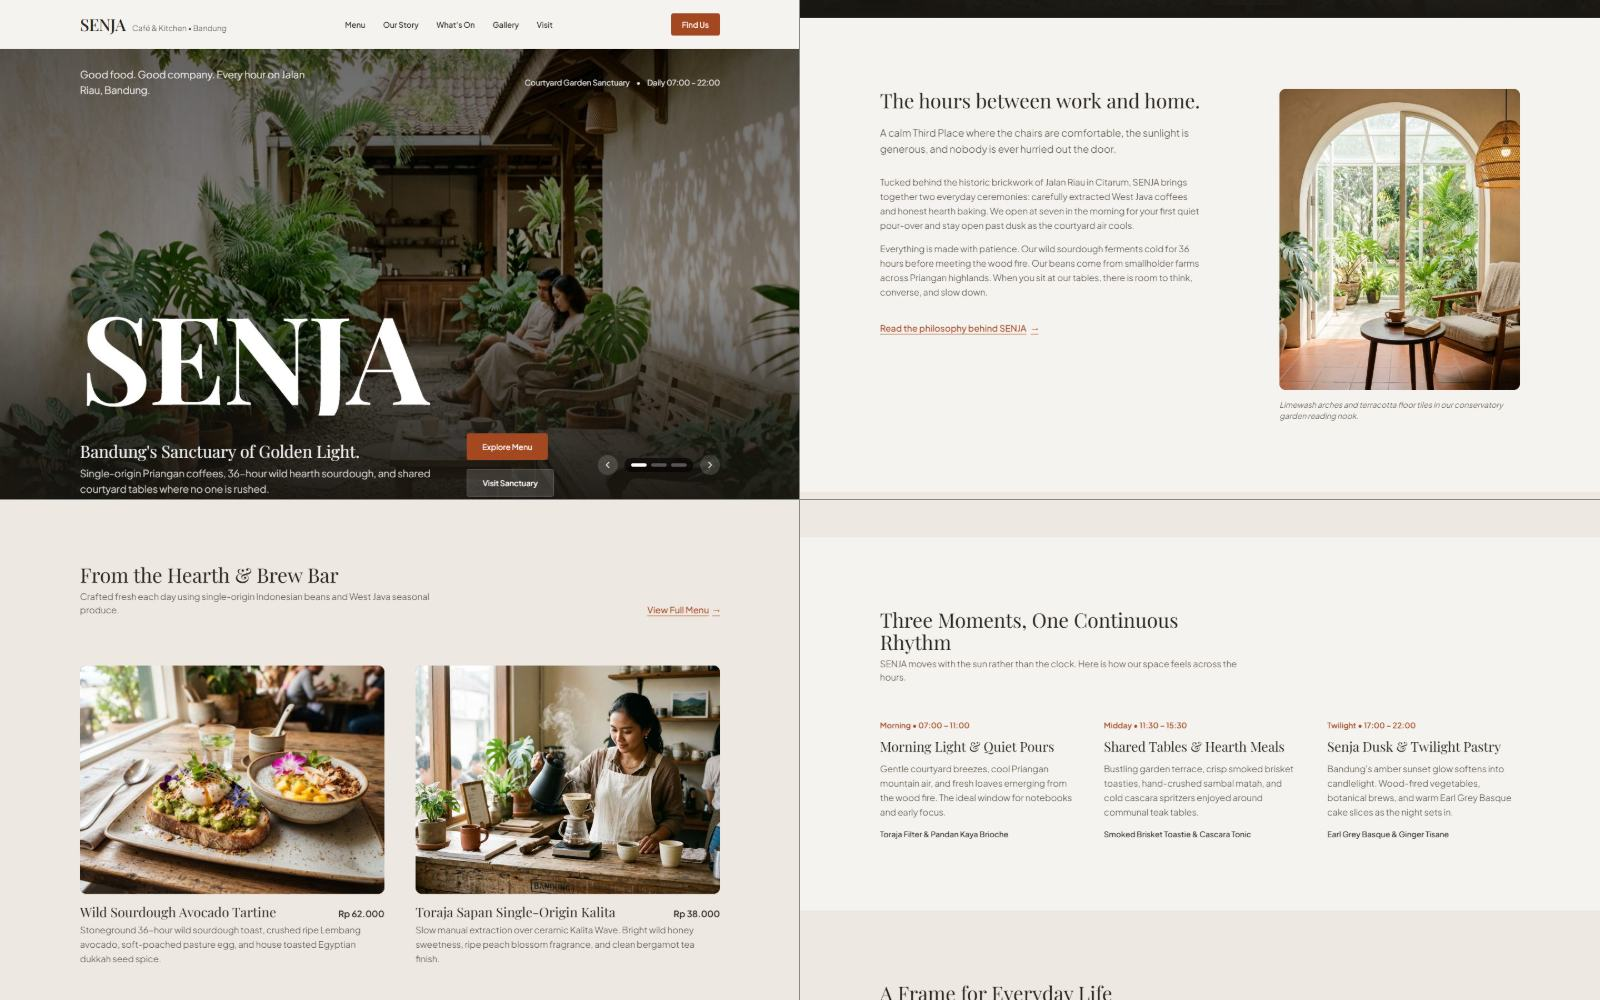
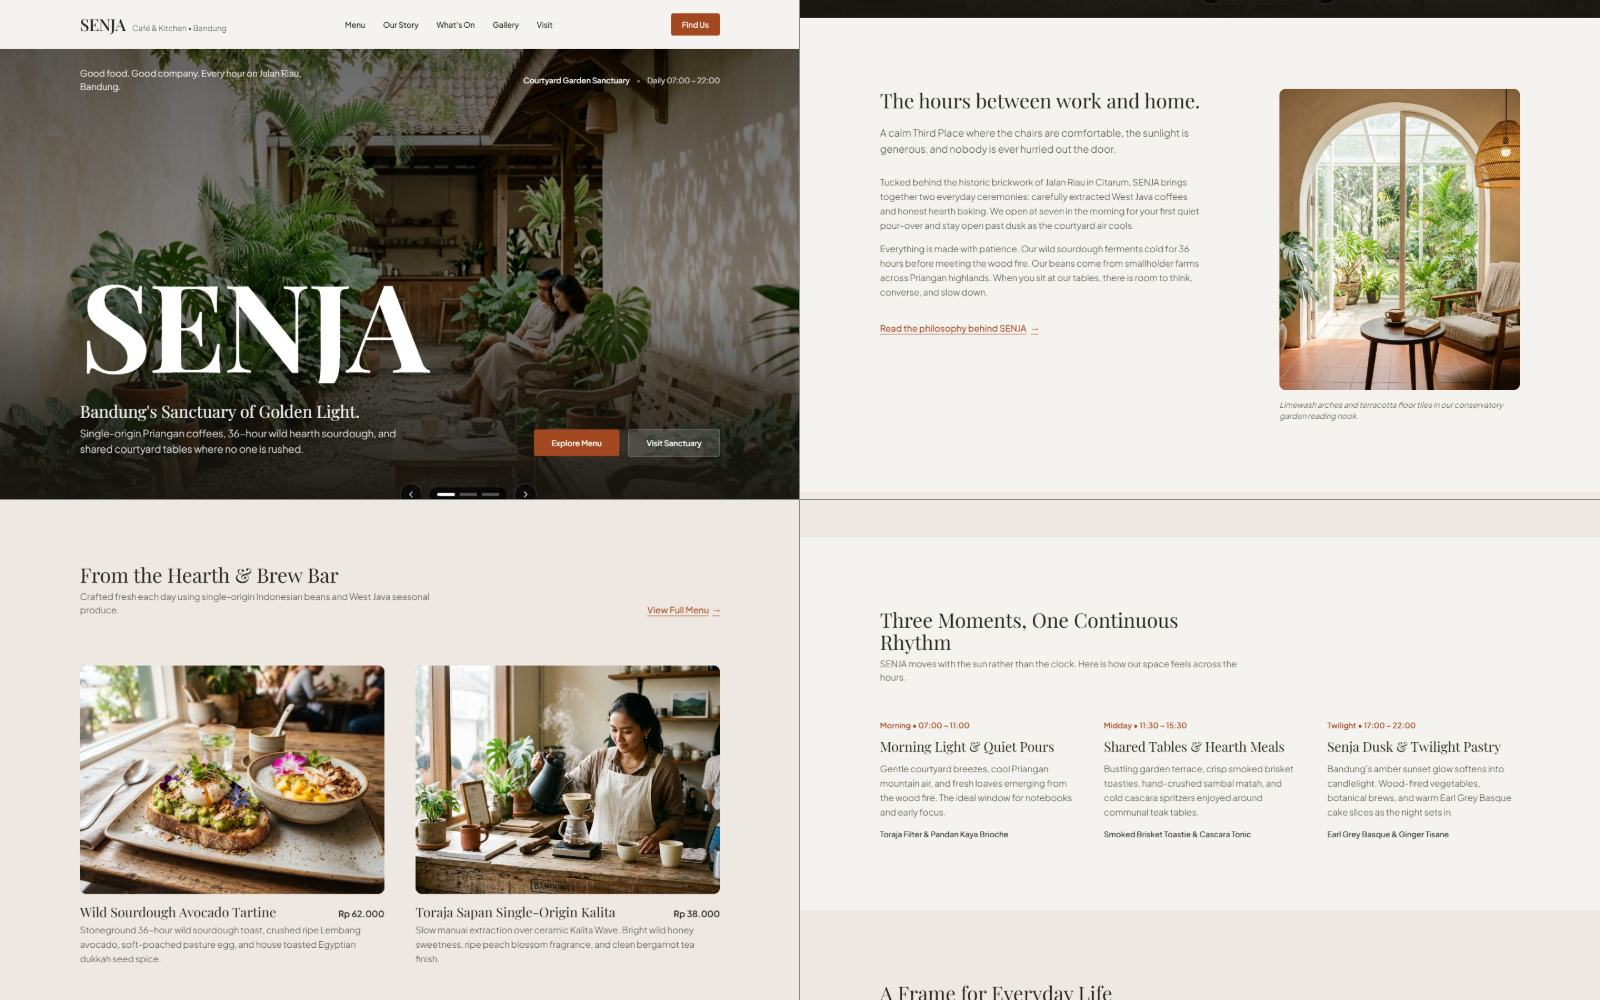
feat(hero): center slider controls dock and align action buttons cleanly

Changed region(s): [[0.0312, 0.279, 0.4688, 0.496], [0.0312, 0.062, 0.1875, 0.093], [0.3125, 0.062, 0.4375, 0.093]]

diff --git a/index.html b/index.html
@@ -225,23 +225,23 @@
       </div>
 
       <!-- Top Row Details -->
-      <div class="relative z-20 px-6 lg:px-12 py-8">
-        <div class="max-w-6xl mx-auto flex flex-col sm:flex-row items-start sm:items-center justify-between gap-4" data-rise style="--delay: 1;">
+      <div class="relative z-20 px-6 lg:px-12 pt-6 sm:pt-8 pb-3">
+        <div class="max-w-6xl mx-auto flex flex-col sm:flex-row items-start sm:items-center justify-between gap-3 sm:gap-4" data-rise style="--delay: 1;">
           <div class="max-w-md">
-            <p class="text-base sm:text-lg font-light text-white/95 leading-snug">
+            <p class="text-sm sm:text-base font-light text-white/90 leading-snug">
               Good food. Good company. Every hour on Jalan Riau, Bandung.
             </p>
           </div>
-          <div class="flex items-center gap-3 text-sm text-white/90">
-            <span id="hero-slide-caption" class="transition-opacity duration-300">Courtyard Garden Sanctuary</span>
-            <span>•</span>
-            <span>Daily 07:00 – 22:00</span>
+          <div class="flex flex-wrap items-center gap-2 sm:gap-3 text-sm text-white/90">
+            <span id="hero-slide-caption" class="transition-opacity duration-300 font-medium text-white">Courtyard Garden Sanctuary</span>
+            <span class="text-white/40">•</span>
+            <span class="text-white/80 whitespace-nowrap">Daily 07:00 – 22:00</span>
           </div>
         </div>
       </div>
 
       <!-- Bottom Monumental Wordmark & Action -->
-      <div class="relative z-30 px-6 lg:px-12 pb-10">
+      <div class="relative z-30 px-6 lg:px-12 pb-24 lg:pb-28">
         <div class="max-w-6xl mx-auto space-y-6">
           
           <!-- Monument Name is the H1 of the page at the top of the block -->
@@ -251,47 +251,46 @@
             </h1>
           </div>
 
-          <div class="flex flex-col lg:flex-row lg:items-end justify-between gap-6 pt-2 relative z-30">
+          <div class="flex flex-col lg:flex-row lg:items-end justify-between gap-8 pt-2 relative z-30">
             <div class="max-w-2xl space-y-2">
               <p class="text-2xl sm:text-3xl font-serif text-white/95 font-normal leading-tight" data-rise style="--delay: 3;">
                 Bandung's Sanctuary of Golden Light.
               </p>
-              <p class="text-base sm:text-lg text-white/85 font-light leading-relaxed" data-rise style="--delay: 4;">
+              <p class="text-base sm:text-lg text-white/85 font-light leading-relaxed max-w-xl" data-rise style="--delay: 4;">
                 Single-origin Priangan coffees, 36-hour wild hearth sourdough, and shared courtyard tables where no one is rushed.
               </p>
             </div>
 
-            <div class="flex flex-col sm:flex-row sm:items-center gap-6">
-              <div class="flex flex-wrap items-center gap-4">
-                <a href="/menu" class="px-7 py-3.5 bg-[#A34821] text-white text-sm font-medium rounded hover:bg-[#7E3314] transition-colors" data-rise style="--delay: 5;">
-                  Explore Menu
-                </a>
-                <a href="/visit" class="px-7 py-3.5 bg-white/15 text-white text-sm font-medium rounded hover:bg-white/25 transition-colors border border-white/20" data-rise style="--delay: 6;">
-                  Visit Sanctuary
-                </a>
-              </div>
-
-              <!-- Editorial Slider Controls & Progress Indicators -->
-              <div class="flex items-center gap-3 pt-1 sm:pt-0" data-rise style="--delay: 6;">
-                <button id="hero-prev" class="w-9 h-9 rounded-full bg-white/15 hover:bg-white/25 active:scale-95 text-white flex items-center justify-center transition-all focus:outline-none focus:ring-2 focus:ring-[#A34821]" aria-label="Previous photograph">
-                  <svg class="w-4 h-4" fill="none" stroke="currentColor" stroke-width="2.5" viewBox="0 0 24 24"><path stroke-linecap="round" stroke-linejoin="round" d="M15 19l-7-7 7-7"/></svg>
-                </button>
-
-                <!-- Indicator Bars -->
-                <div class="flex items-center gap-2 px-3 py-2.5 bg-black/60 rounded-full">
-                  <button class="hero-indicator h-1.5 w-7 rounded-full bg-white transition-all duration-300" data-index="0" aria-label="Go to Courtyard slide"></button>
-                  <button class="hero-indicator h-1.5 w-7 rounded-full bg-white/30 hover:bg-white/60 transition-all duration-300" data-index="1" aria-label="Go to Interior slide"></button>
-                  <button class="hero-indicator h-1.5 w-7 rounded-full bg-white/30 hover:bg-white/60 transition-all duration-300" data-index="2" aria-label="Go to Brew Bar slide"></button>
-                </div>
-
-                <button id="hero-next" class="w-9 h-9 rounded-full bg-white/15 hover:bg-white/25 active:scale-95 text-white flex items-center justify-center transition-all focus:outline-none focus:ring-2 focus:ring-[#A34821]" aria-label="Next photograph">
-                  <svg class="w-4 h-4" fill="none" stroke="currentColor" stroke-width="2.5" viewBox="0 0 24 24"><path stroke-linecap="round" stroke-linejoin="round" d="M9 5l7 7-7 7"/></svg>
-                </button>
-              </div>
+            <!-- Two Action Buttons (Explore Menu & Visit Sanctuary) in a balanced horizontal row -->
+            <div class="grid grid-cols-2 sm:flex sm:items-center gap-3 sm:gap-4 flex-shrink-0" data-rise style="--delay: 5;">
+              <a href="/menu" class="px-4 sm:px-8 py-3.5 bg-[#A34821] text-white text-sm font-medium rounded hover:bg-[#7E3314] transition-all hover:scale-[1.02] active:scale-[0.98] text-center whitespace-nowrap sm:min-w-[150px]">
+                Explore Menu
+              </a>
+              <a href="/visit" class="px-4 sm:px-8 py-3.5 bg-white/15 text-white text-sm font-medium rounded hover:bg-white/25 transition-all active:scale-[0.98] border border-white/25 hover:border-white/40 text-center whitespace-nowrap sm:min-w-[150px]">
+                Visit Sanctuary
+              </a>
             </div>
           </div>
 
         </div>
+      </div>
+
+      <!-- Centered Slider Controls Dock (Tengah Bawah) -->
+      <div class="absolute bottom-5 sm:bottom-6 left-1/2 -translate-x-1/2 z-30 flex items-center gap-2.5 sm:gap-3 pointer-events-auto" data-rise style="--delay: 6;">
+        <button id="hero-prev" class="w-9 h-9 sm:w-10 sm:h-10 rounded-full bg-black/60 hover:bg-black/85 text-white/90 hover:text-white flex items-center justify-center transition-all border border-white/20 hover:border-white/40 focus:outline-none focus:ring-2 focus:ring-[#A34821] active:scale-95" aria-label="Previous photograph">
+          <svg class="w-4 h-4" fill="none" stroke="currentColor" stroke-width="2.5" viewBox="0 0 24 24"><path stroke-linecap="round" stroke-linejoin="round" d="M15 19l-7-7 7-7"/></svg>
+        </button>
+
+        <!-- Indicator Bars Dock -->
+        <div class="flex items-center gap-2 px-3 sm:px-3.5 py-2 sm:py-2.5 bg-black/70 rounded-full border border-white/15">
+          <button class="hero-indicator h-1.5 w-6 sm:w-8 rounded-full bg-white transition-all duration-300" data-index="0" aria-label="Go to Courtyard slide"></button>
+          <button class="hero-indicator h-1.5 w-6 sm:w-8 rounded-full bg-white/35 hover:bg-white/70 transition-all duration-300" data-index="1" aria-label="Go to Interior slide"></button>
+          <button class="hero-indicator h-1.5 w-6 sm:w-8 rounded-full bg-white/35 hover:bg-white/70 transition-all duration-300" data-index="2" aria-label="Go to Brew Bar slide"></button>
+        </div>
+
+        <button id="hero-next" class="w-9 h-9 sm:w-10 sm:h-10 rounded-full bg-black/60 hover:bg-black/85 text-white/90 hover:text-white flex items-center justify-center transition-all border border-white/20 hover:border-white/40 focus:outline-none focus:ring-2 focus:ring-[#A34821] active:scale-95" aria-label="Next photograph">
+          <svg class="w-4 h-4" fill="none" stroke="currentColor" stroke-width="2.5" viewBox="0 0 24 24"><path stroke-linecap="round" stroke-linejoin="round" d="M9 5l7 7-7 7"/></svg>
+        </button>
       </div>
 
     </section>
